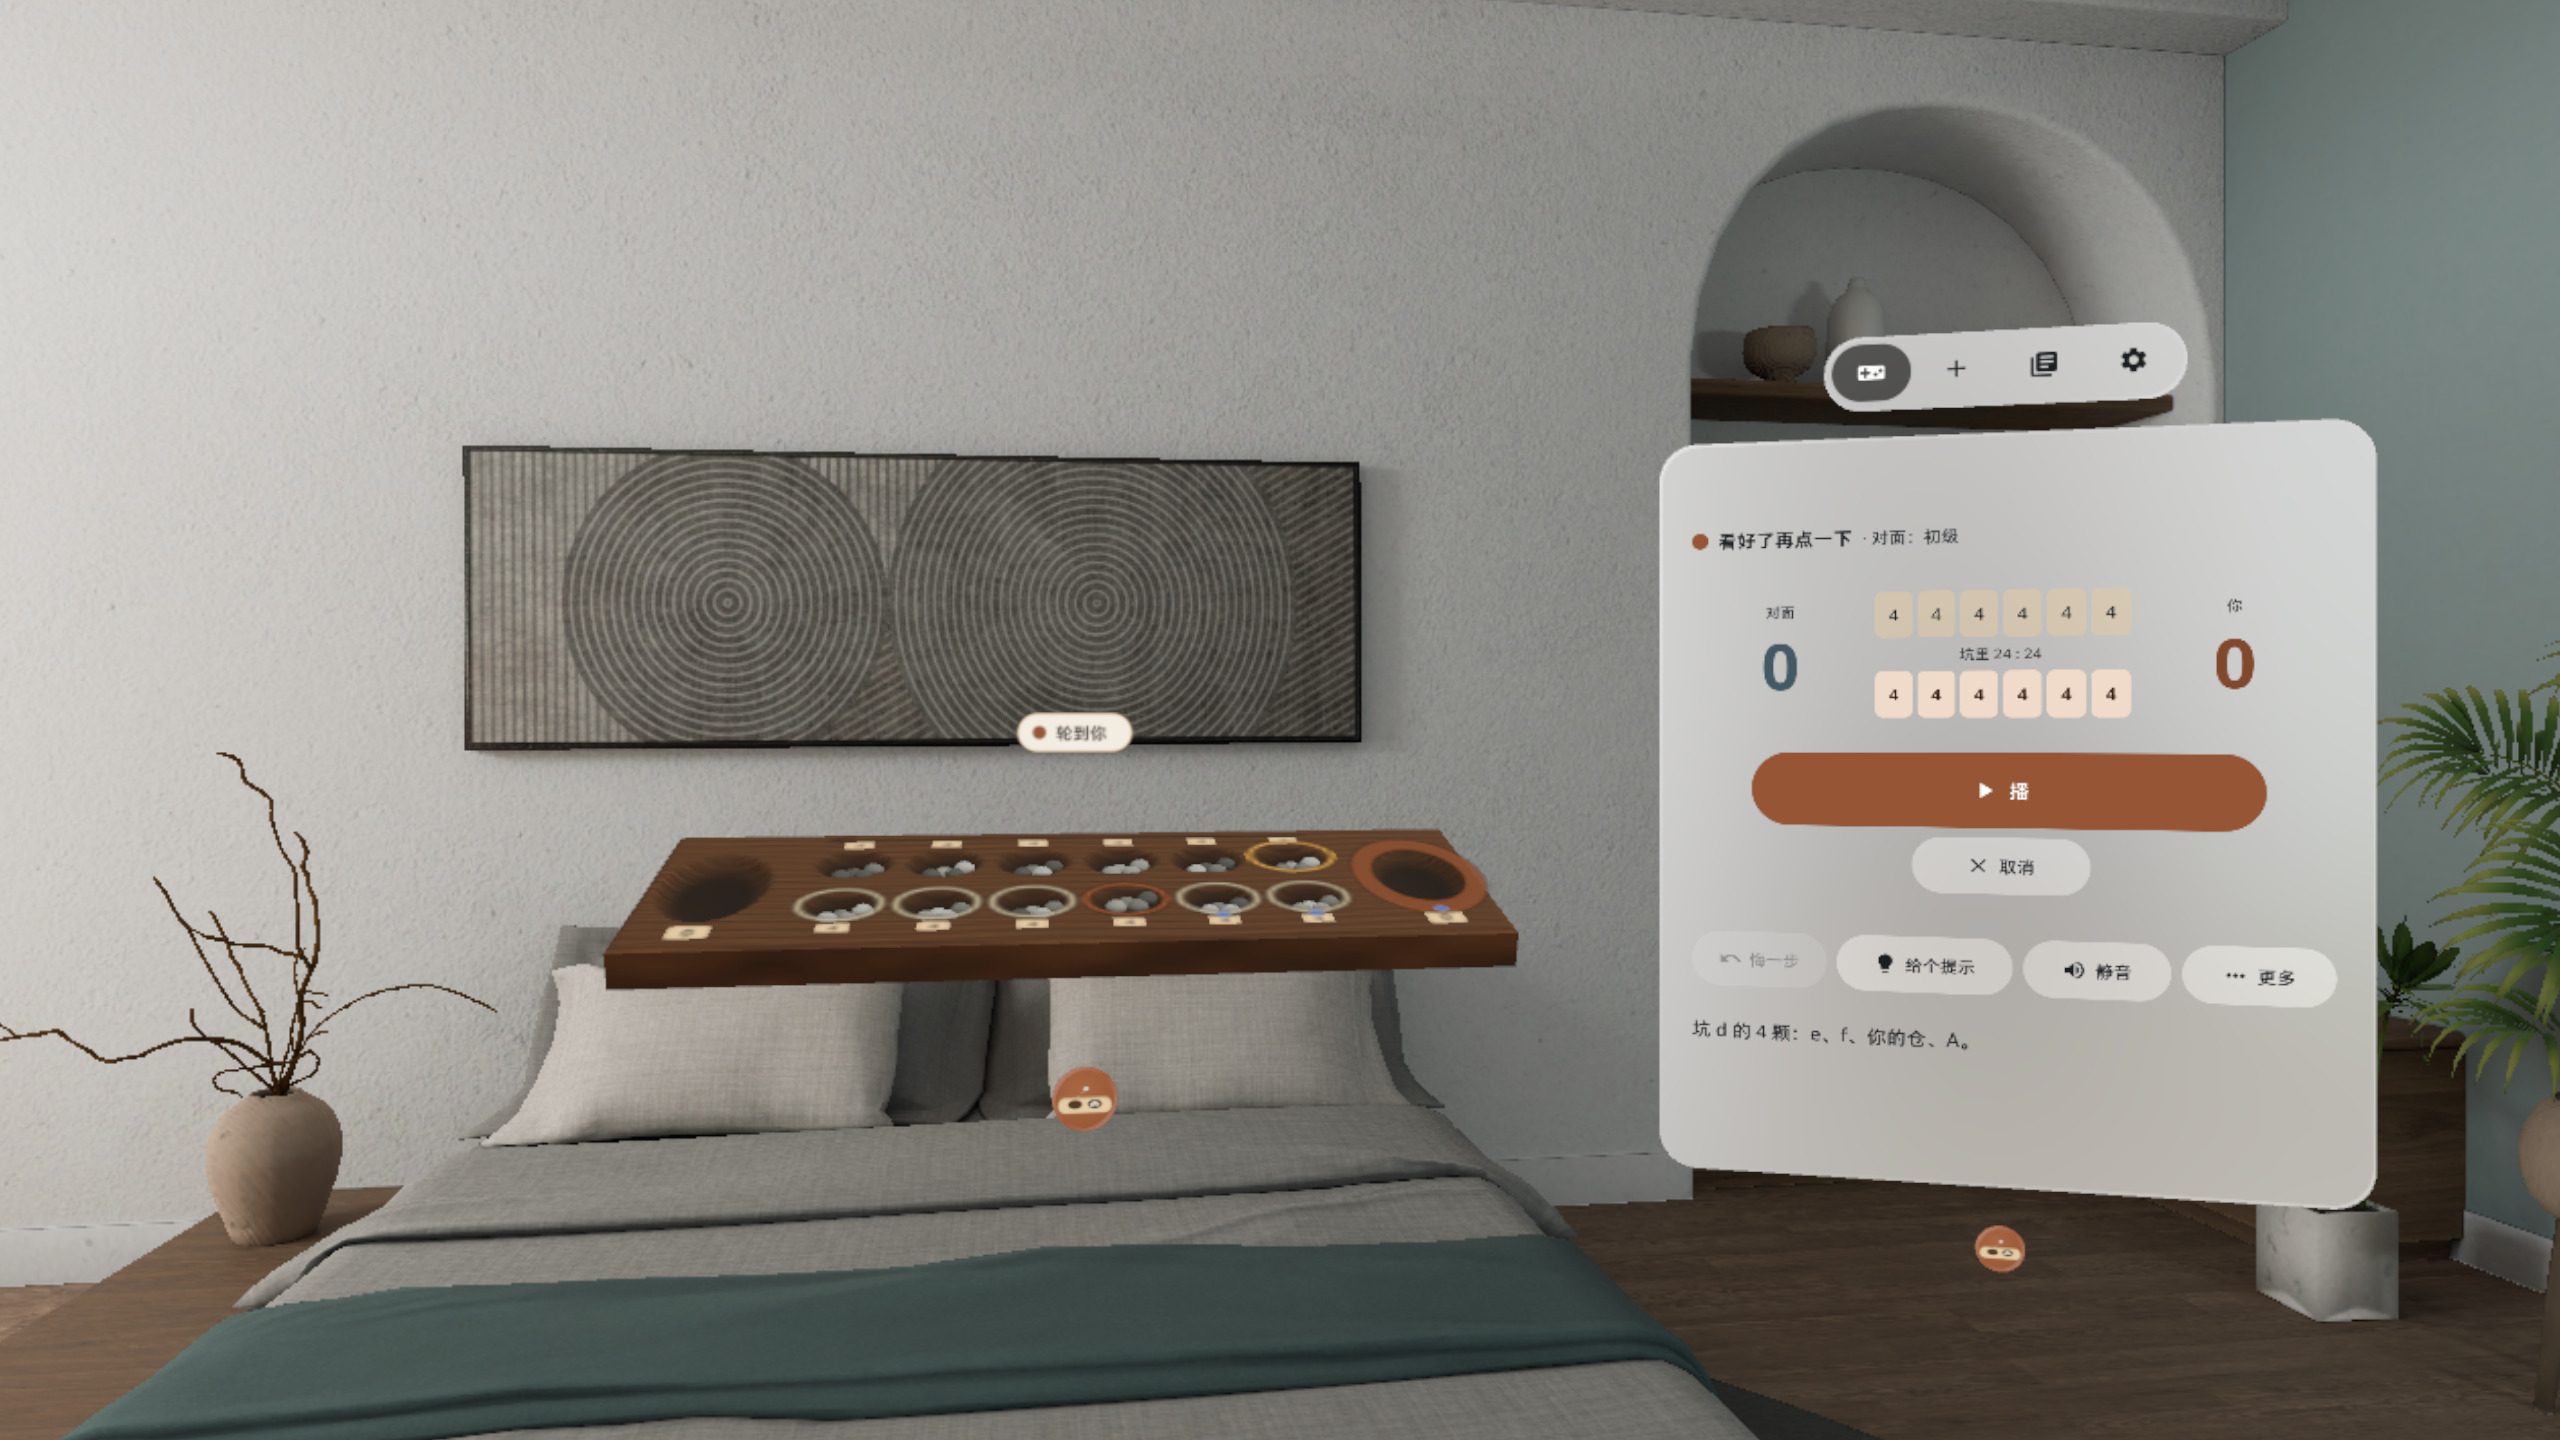
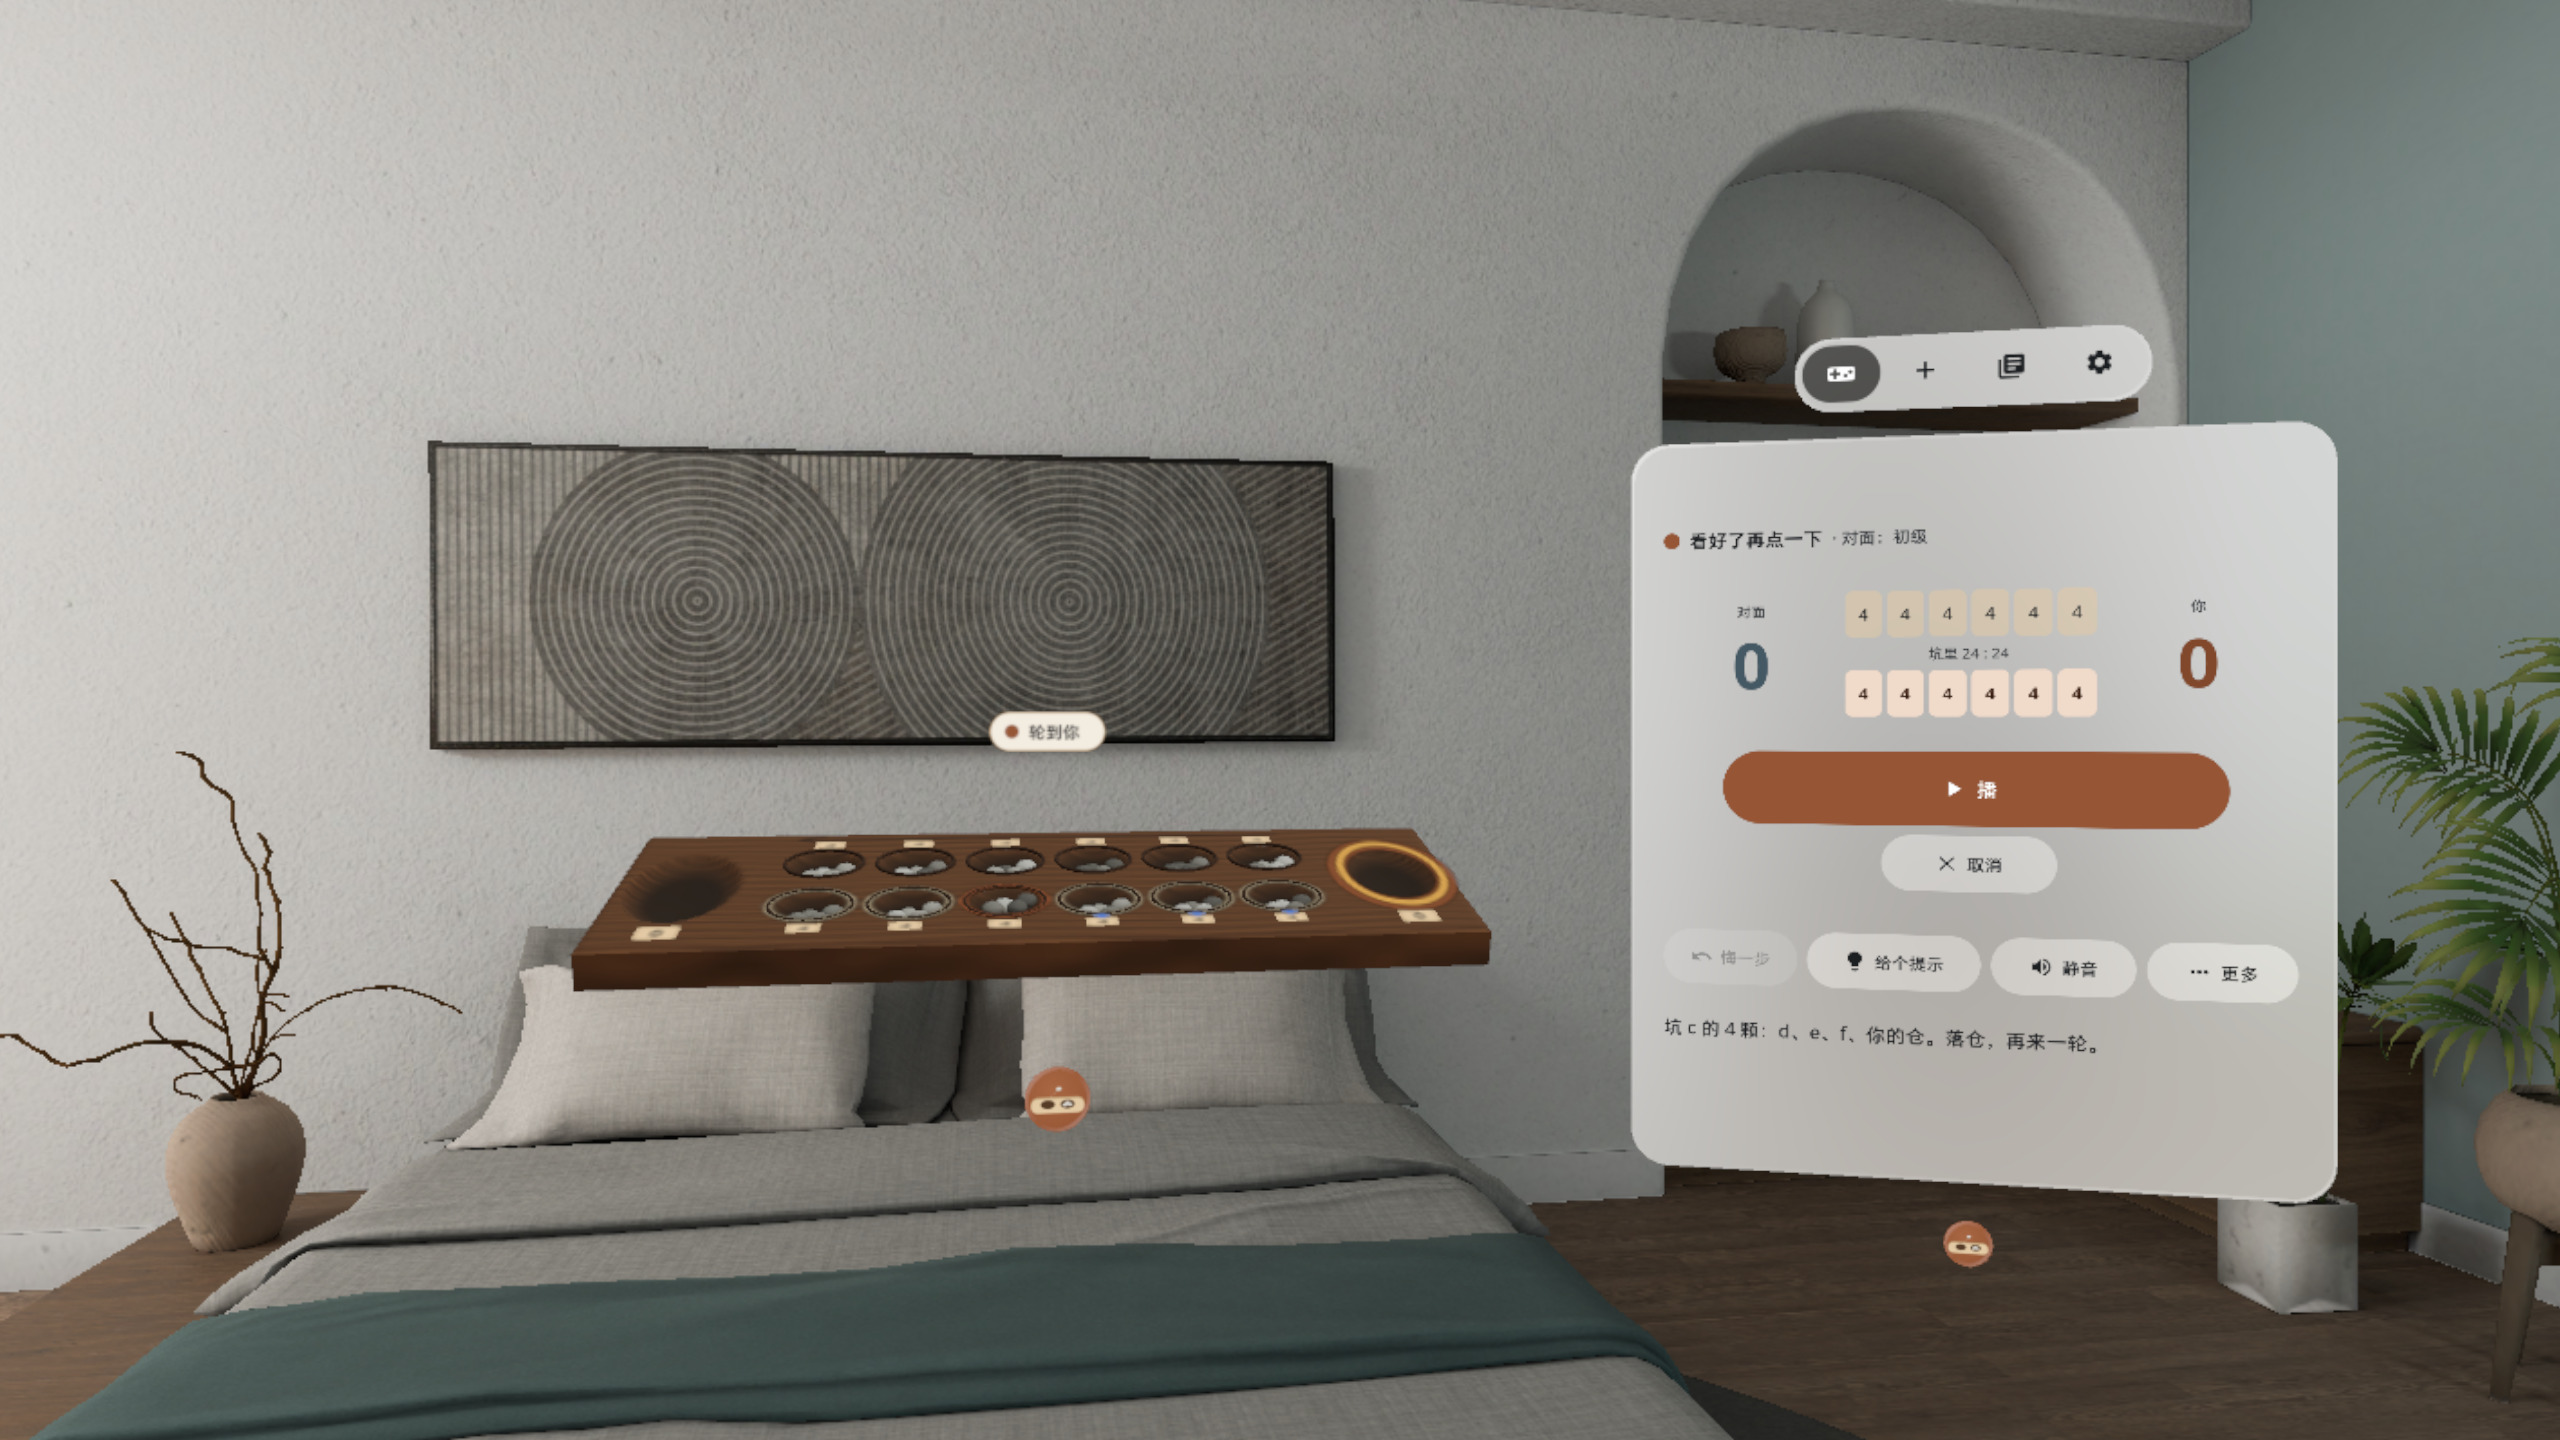
v0.1.6 release: README (zh/en), docs screenshots (zh + en) and posters

diff --git a/README.md b/README.md
@@ -18,22 +18,24 @@ PICO 空间应用（PICO OS 6 · Spatial SDK BOM 6.1.9 · Shared Space 体积窗
 - **看得见的播种**：一把石子被抓起，沿弧线逐颗落坑，落点减速、轻弹、滚动；抓对面、收余也是逐颗错开的动画
 - **真实的声音**：落坑、落仓、抓起、扫仓都是 CC0 实物录音，每次随机变体、音高略有起伏，连续落子自动降音
 - **五档 AI**：入门 / 初级 / 中级 / 高级 / 大师，本机 α-β 搜索；悔一步、重做、提示、认输、重开
+- **看得见落点**：12 个坑口各有一圈可见的环，眼睛看过去或射线指到时系统把它点亮
+- **三种输入一套点击**：手柄射线、手势射线、眼手捏合走同一条点击路径，手抖成小拖动的点按也算点击
 - **系统原生窗口**：棋盘在系统立体窗口里，用下方系统把手拖动、等比缩放；控制窗（对局 / 新局 / 规则 / 设置）在棋盘右侧
-- 倾角 0° / 15°、坑边数字牌开关、减少动态、音量三档；每回合自动存档；眼手捏合 / 手柄射线都能点坑；中英双语；本机运行，不联网、不要账号
+- 倾角 0° / 15°、坑边数字牌开关、减少动态、音量三档；每回合自动存档；中英双语；本机运行，不联网、不要账号
 
 ### 截图
 
-> v0.1.5 截图来自 PICO 模拟器（画质高清 2560，中文界面），由调试广播驱动，**非真实手势录像**。演示视频 `video-01.mp4` 在 Release 资产里（同样非真实手势录像，无声）。
+> v0.1.6 截图来自 PICO 模拟器（画质高清 2560，中文界面），由调试广播驱动，**非真实手势录像**。演示视频 `video-01.mp4` 在 Release 资产里（同样非真实手势录像，无声）。
 
 | | |
 |---|---|
-| ![播种](docs/shot-01.jpg) 播种瞬间：一把卵石刚被抓起，要沿弧线撒进后面的坑 | ![开局](docs/shot-02.jpg) 开局：两排六坑各 4 颗，两头大仓，坑边数字牌 |
-| ![预览](docs/shot-03.jpg) 预览：路径亮起、终点琥珀环，按 [播] 才走 | ![结果](docs/shot-04.jpg) 结果：你赢了 27 : 21 |
+| ![播种](docs/shot-01.jpg) 播种瞬间：卵石沿弧线一颗颗飞向仓 | ![开局](docs/shot-02.jpg) 开局：12 个坑口都有可见的环，各 4 颗卵石，两头大仓 |
+| ![预览](docs/shot-03.jpg) 预览：路径亮起、终点琥珀环，按 [播] 才走 | ![结果](docs/shot-04.jpg) 结果：你赢了 26 : 21 |
 | ![新局](docs/shot-05.jpg) 新局：五档 AI 和先后手 | ![规则](docs/shot-06.jpg) 规则：一条示意图 + 三句话 |
 
 ### 安装
 
-[Release v0.1.5](https://github.com/kejing-dev/SeedPits/releases/tag/v0.1.5) 里的 `SeedPits-v0.1.5.apk` 是 `assembleRelease` 出的未签名包（给应用商店上架用，`adb install` 会拒绝）。自己装请从源码构建 debug 包，头显开启开发者模式并用 USB 连上电脑：
+[Release v0.1.6](https://github.com/kejing-dev/SeedPits/releases/tag/v0.1.6) 里的 `SeedPits-v0.1.6.apk` 是 `assembleRelease` 出的未签名包（给应用商店上架用，`adb install` 会拒绝）。自己装请从源码构建 debug 包，头显开启开发者模式并用 USB 连上电脑：
 
 ```bash
 ./gradlew assembleDebug
@@ -45,7 +47,7 @@ pico-cli app launch io.embodit.seedpits
 
 ### 已知问题
 
-1. v0.1.5 只改了动画和声音；界面和规则的模拟器 QA 以 v0.1.4 的第 4 轮为准（已过），v0.1.5 由用户在头显上试玩后放行。
+1. v0.1.5 / v0.1.6 是真机反馈补丁，没有单独跑模拟器 QA 轮；界面和规则以 v0.1.4 的第 4 轮为准（已过），v0.1.6 由用户在头显上看过后放行。
 2. 落坑声用的是筹码落在毡面上的录音（没有现成的卵石落木坑录音）。
 3. 新局页、规则页不能滚动，文案再加长时上下可能被裁。
 4. 对局页中部主按钮位置留空，中间有一条空带。
@@ -55,6 +57,7 @@ pico-cli app launch io.embodit.seedpits
 
 ### 版本历史
 
+- **v0.1.6**：接工厂 board-input 三输入模板（手柄射线、手势射线、眼手）；12 个坑口可见环承接系统高亮；命中回放单测；选坑无声、同类声单实例，连点不叠加
 - **v0.1.5**：真机试玩反馈后，播种 / 抓起 / 抓对面 / 收余改成物理弧线 + 落点减速 + 弹滚、逐颗错开；所有实物声换成 Kenney CC0 录音
 - **v0.1.4**：新局页、规则页整窗排版，不再顶对齐留大片空白；补存档前置的新局确认单测
 - **v0.1.3**：对局页和结果卡居中，仓数字放大到 56 sp
@@ -74,6 +77,8 @@ pico-cli app launch io.embodit.seedpits
 
 ## English
 
+![Seed Pits](docs/poster-en.jpg)
+
 **A wooden board with two rows of pits on your table: tap a pit and the pebbles fly one by one into the next pits. Five AI levels — Master is hard to beat.**
 
 A PICO spatial app (PICO OS 6 · Spatial SDK BOM 6.1.9 · Shared Space volume). A 66 cm board sits in front of you: two rows of six pits, a store at each end, 48 river pebbles. The rules are the classic Kalah: tap one of your pits and its pebbles are sown counterclockwise one by one; if the last one lands in your store you go again, if it lands in an empty pit on your side you capture the opposite pit.
@@ -84,22 +89,24 @@ A PICO spatial app (PICO OS 6 · Spatial SDK BOM 6.1.9 · Shared Space volume). 
 - **Sowing you can see**: the handful lifts and arcs into each pit with slow-in landings, a small hop and roll; captures and the final sweep are staggered stone by stone
 - **Real sounds**: pit drops, store drops, grabs and sweeps are CC0 recordings with random variants and slight pitch changes; overlapping sounds duck
 - **Five AI levels**: Easy / Casual / Smart / Strong / Master, local alpha-beta search; undo, redo, hint, resign, restart
+- **See where you land**: all 12 pits have a visible rim; the system lights it when you look or point at it
+- **Three inputs, one tap**: controller ray, hand ray and eye-hand pinch share one tap path; a shaky tap that reads as a small drag still counts
 - **Native system window**: the board lives in a system volume — move and resize it with the system handle; the control window (Play / New game / Rules / Settings) sits to its right
-- Tilt 0° / 15°, pit numbers on/off, reduced motion, three volume levels; autosave every turn; eye-hand pinch and controller ray both work; Chinese and English; fully offline, no account
+- Tilt 0° / 15°, pit numbers on/off, reduced motion, three volume levels; autosave every turn; Chinese and English; fully offline, no account
 
 ### Screenshots
 
-> v0.1.5 PICO emulator screenshots (high-definition 2560, Chinese UI), driven by debug broadcasts — **not a recording of real hand input**. The demo video `video-01.mp4` is a Release asset (also not real hand input, no sound).
+> v0.1.6 PICO emulator screenshots (high-definition 2560, English UI), driven by debug broadcasts — **not a recording of real hand input**. The demo video `video-01.mp4` is a Release asset (also not real hand input, no sound).
 
 | | |
 |---|---|
-| ![Sowing](docs/shot-01.jpg) Sowing: a handful just lifted, about to arc into the next pits | ![Start](docs/shot-02.jpg) Start: 4 pebbles in each of 12 pits, stores at both ends |
-| ![Preview](docs/shot-03.jpg) Preview: path lit, amber ring on the landing pit, press [Sow] to play | ![Result](docs/shot-04.jpg) Result: you win 27 : 21 |
-| ![New game](docs/shot-05.jpg) New game: five AI levels and who starts | ![Rules](docs/shot-06.jpg) Rules: one diagram, three sentences |
+| ![Sowing](docs/shot-en-01.jpg) Sowing: pebbles arc one by one toward the store | ![Start](docs/shot-en-02.jpg) Start: a visible rim on all 12 pits, 4 pebbles each, stores at both ends |
+| ![Preview](docs/shot-en-03.jpg) Preview: path lit, amber ring on the landing pit, press [Sow] to play | ![Result](docs/shot-en-04.jpg) Result: you win 26 : 21 |
+| ![New game](docs/shot-en-05.jpg) New game: five AI levels and who starts | ![Rules](docs/shot-en-06.jpg) Rules: one diagram, three sentences |
 
 ### Install
 
-`SeedPits-v0.1.5.apk` in [Release v0.1.5](https://github.com/kejing-dev/SeedPits/releases/tag/v0.1.5) is an unsigned `assembleRelease` build (for store submission; `adb install` rejects it). To install it yourself, build the debug APK from source, enable developer mode on the headset and connect it over USB:
+`SeedPits-v0.1.6.apk` in [Release v0.1.6](https://github.com/kejing-dev/SeedPits/releases/tag/v0.1.6) is an unsigned `assembleRelease` build (for store submission; `adb install` rejects it). To install it yourself, build the debug APK from source, enable developer mode on the headset and connect it over USB:
 
 ```bash
 ./gradlew assembleDebug
@@ -111,7 +118,7 @@ Requires PICO OS 6 (Android 15, minSdk 35). No extra permissions.
 
 ### Known issues
 
-1. v0.1.5 only changes animation and sound; emulator QA of the UI and rules is round 4 on v0.1.4 (passed); v0.1.5 was approved after the user played it on a headset.
+1. v0.1.5 and v0.1.6 are headset-feedback patches without a separate emulator QA round; UI and rules QA is round 4 on v0.1.4 (passed); v0.1.6 was approved after the user tried it on a headset.
 2. The pit-drop sound is a clay chip landing on felt (no ready-made pebble-on-wood recording).
 3. The New and Rules pages do not scroll; longer copy could be clipped.
 4. The main-action slot in the middle of the Play page is left empty.
@@ -121,6 +128,7 @@ Requires PICO OS 6 (Android 15, minSdk 35). No extra permissions.
 
 ### Version history
 
+- **v0.1.6**: built on the factory board-input template (controller ray, hand ray, eye-hand); visible rims on all 12 pits carry the system hover highlight; hit replay unit tests; selecting a pit is silent and each sound kind plays one instance at a time
 - **v0.1.5**: after headset play-testing, sowing / grabbing / captures / sweeps use physical arcs with slow-in landings, hops and rolls, staggered per stone; all physical sounds replaced by Kenney CC0 recordings
 - **v0.1.4**: New and Rules pages fill the window; saved-game confirm tests
 - **v0.1.3**: Play page and result card centred; 56 sp store counts
